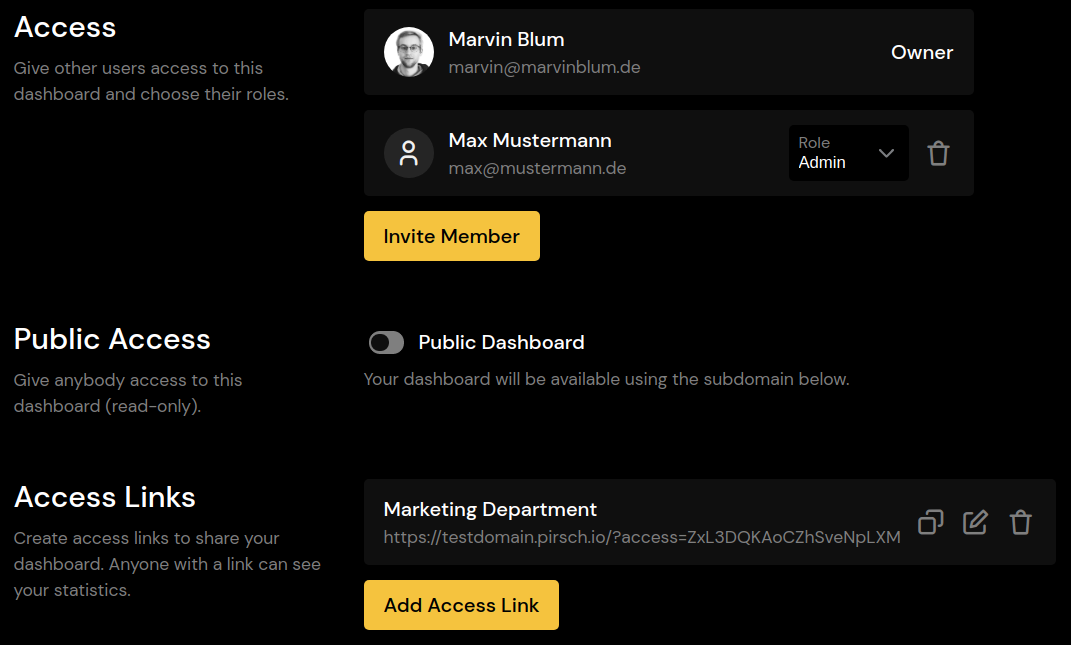
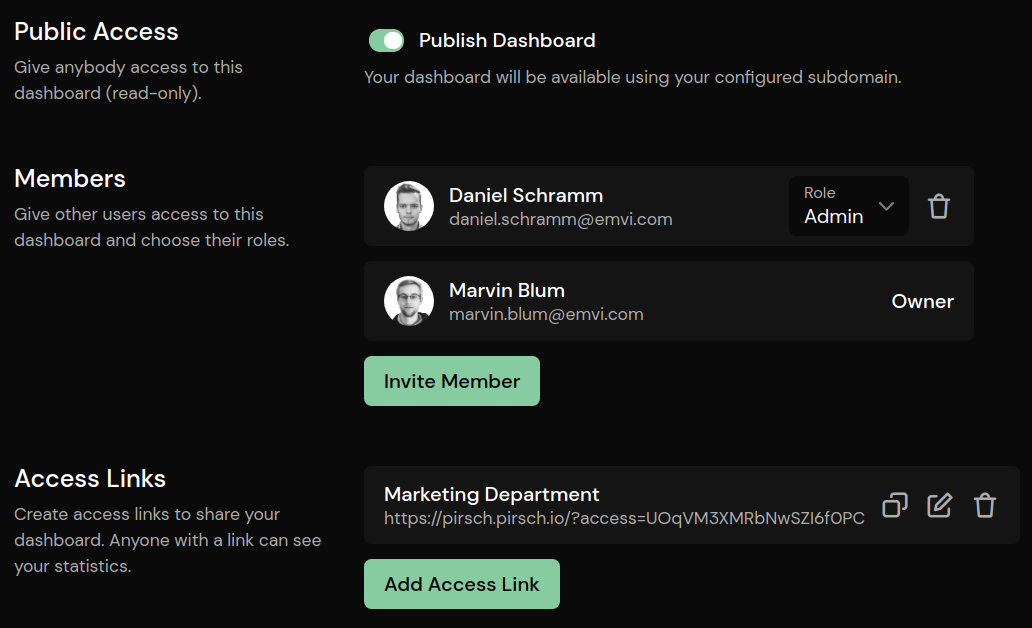
Restructured settings, updated screenshot, added data deletion and ownership transfer sections.

diff --git a/content/dashboard/general-settings.md b/content/dashboard/general-settings.md
@@ -1,0 +1,42 @@
+---
+title: "General Settings"
+date: 2021-04-08
+draft: false
+weight: 3
+description: "Manage your websites settings."
+---
+
+## Changing the Subdomain
+
+You can change the subdomain for public access by entering a new one and pressing *Save*. Note that the subdomain needs to be available and some subdomains are reserved.
+
+## Email Reports
+
+Send email reports to yourself or external recipients every week, two weeks, three weeks, or once per month. To add email addresses, click on *Add Reports*, enter the recipients and the preferred interval. The report will look something like this:
+
+![Email Report](/dashboard/email-report.png)
+
+Please make sure you only add recipients who want to receive reports.
+
+## Search Console
+
+The integration can be used to connect your dashboard to Google Search Console. After activation, it will show a list of keywords on the dashboard visitors use to find your website. We use the minimal amount of data required to connect to your account. This includes your user ID, email address, and a refresh token. You can remove Pirsch from your account by navigating to the [Account Permissions](https://myaccount.google.com/permissions) page for your Google account.
+
+Before you can use the integration, add your website to Search Console and verify that you are the owner of your domain. Afterwards, navigate back to the Pirsch dashboard settings page and follow these steps:
+
+1. click on *Continue with Google*, this will redirect you to login with the Google account you would like to use to connect
+2. select the account that has access to your property on Google Search Console ![Site Selection](/dashboard/settings-gsc-accounts.png)
+3. grant access to your Search Console data ![Site Selection](/dashboard/settings-gsc-permissions.png)
+4. confirm the choices on the next screen ![Site Selection](/dashboard/settings-gsc-confirmation.png)
+5. after you have been redirected back to the settings page, select the website you would like to pull data from. The list will only show **verified** sites ![Site Selection](/dashboard/settings-gsc-integration.png)
+6. navigate to the dashboard and check if you see a new panel *Keywords* with the data from the Search Console
+
+In case you don't see any data, please wait a few hours. The data on Search Console is not updated in real-time, and it might take a while before you see the results.
+
+In case you would like to remove the integration, click on *Unlink Account*.
+
+## Export to CSV
+
+You can export your data for up to the past 12 months. Click on *Export Data to CSV* and select the start date, end date, and the statistics you would like to export. Clicking on *Create CSV File* will start the download. The statistics are separated into individual CSV files and bundled within a zip archive.
+
+![CSV Export](/dashboard/csv-export.png)

diff --git a/content/dashboard/access-settings.md b/content/dashboard/access-settings.md
@@ -1,0 +1,32 @@
+---
+title: "Access Settings"
+date: 2021-04-08
+draft: false
+weight: 4
+description: "Manage who has access to your dashboard."
+---
+
+There are multiple ways to manage access to your websites statistics. They always refer to the currently active domain. To give the same person access to two websites for example, you need to add them to both separately.
+
+### Public Access
+
+The *Public Access* and *Access Links* section both give anyone access to your dashboard.
+
+*Public Access* will make your dashboard public to anyone on the subdomain you have chosen when creating the website. An example for this is our live demo on [pirsch.pirsch.io](https://pirsch.pirsch.io/), where the first *pirsch* in the domain is replaced by the one you have configured.
+
+*Access Links* can be used to generate a link which allows anyone who has it to read your dashboard. The advantage over the *Public Access* is that you can delete links to deny access, without interrupting anyone who has a different link.
+
+### Private Access
+
+If you don't want to send out links or make your dashboard public to anyone, you can invite members instead. Click *Invite Member* to add new members to your website and enter all email addresses you would like to invite. The invited members will have to create an account for Pirsch if they don't already have one and accept the invitation.
+
+After the members have joined, they will be able to view all statistics without modifing settings. You can change the member role to give them administrative access to your dashboard, including:
+
+* managing members (not including themselves or you, the owner)
+* managing access links
+* resetting the identification code
+* managing clients
+
+To remove a member, just click on the trash icon.
+
+![Access Management](/dashboard/settings-access.png)

diff --git a/content/dashboard/developer-settings.md b/content/dashboard/developer-settings.md
@@ -1,0 +1,23 @@
+---
+title: "Developer Settings"
+date: 2021-04-08
+draft: false
+weight: 5
+description: "Manage integrations and other development related settings."
+---
+
+## JavaScript Snippet
+
+The snippet for the [website integration]({{< ref "get-started/frontend-integration.md" >}}). This is just here for your convenience.
+
+## Resetting the Identifcation Code
+
+The identification code is used for the JavaScript snippet which must be embedded on your page if you decide to use the [website integration]({{< ref "get-started/frontend-integration.md" >}}). Usually, you don't need to change it, but should your identification code get hijacked, you can reset it here. Note that you need to update all pages containing the snippet should you reset it.
+
+## Clients
+
+Clients are used to access the [Pirsch API]({{< ref "api-sdks/_index.md" >}}). You will need one if you decide to use the [backend integration]({{< ref "get-started/backend-integration.md" >}}) or to access your data from an external application.
+
+To create a new client, click *Add Client* and enter a description. The next dialog will show the unique client ID and secret, which you should save and treat like a password. Once the dialog is closed, there is no way to view the secret again and you will have to create a new client.
+
+![Clients](/dashboard/settings-client.png)

diff --git a/content/integrations/wordpress.md b/content/integrations/wordpress.md
@@ -14,13 +14,13 @@ To install the plugin, navigate to the plugins page on your WordPress administra
 
 ![WordPress Plugin](/integration/wordpress.png)
 
-Enter the hostname you used to set up the website on the Pirsch dashboard and the client ID and secret. You can create new clients on the [settings page]({{< ref "dashboard/settings.md" >}}) for your website. After you clicked on save, Pirsch will start collecting statistics for your website.
+Enter the hostname you used to set up the website on the Pirsch dashboard and the client ID and secret. You can create new clients on the [settings page]({{< ref "dashboard/developer-settings.md" >}}) for your website. After you clicked on save, Pirsch will start collecting statistics for your website.
 
 ## Installing the Script (Frontend Integration)
 
 To add the JavaScript snippet on your WordPress website, install the "Insert Headers and Footers" plugin. Navigate to the settings page of the plugin and paste the snippet inside the "header" section and save.
 
-The snippet can be found on the [settings page]({{< ref "dashboard/settings.md" >}}) of your dashboard.
+The snippet can be found on the [settings page]({{< ref "dashboard/developer-settings.md" >}}) of your dashboard.
 
 ## Permalink Settings
 

diff --git a/content/dashboard/danger-zone-settings.md b/content/dashboard/danger-zone-settings.md
@@ -1,0 +1,19 @@
+---
+title: "Danger Zone"
+date: 2021-04-08
+draft: false
+weight: 6
+description: "Delete statistics, transfer ownership or delete the website entirely."
+---
+
+## Delete Data
+
+You can delete all or parts of the statistics for a specific domain. Click on *Delete Data* and select the time frame you would like to use. Afterwards, select the statistics you would like to delete or all.
+
+## Transfer Ownership
+
+In case you would like to transfer the ownership for the website, click on *Transfer Ownership* and enter the email address of the new owner. The new owner must have an account at Pirsch and accept the transfer from the dashboard. Please note that the new owner must have an active subscription (or an active free-trial) to collect statistics for the new website. The page views will count towards the subscription of the new owner after the transfer has been accepted.
+
+## Delete Your Domain
+
+This action will delete all statistics, access to the dashboard, and free up the subdomain. Note that deleting a domain is permanent, we won't keep any of your data.

diff --git a/content/dashboard/overview.md b/content/dashboard/overview.md
@@ -54,7 +54,7 @@ A panel will only display the top 10 results, but you can enlarge it to see all 
 
 ### Google Keywords From the Search Console
 
-In case you have enabled the Google Search Console integration on the [settings page]({{< ref "dashboard/settings.md" >}}) the panel will show the number of clicks, impressions, CTR, and the average search rank for keywords visitors use to find your website on Google.
+In case you have enabled the Google Search Console integration on the [settings page]({{< ref "dashboard/general-settings.md" >}}) the panel will show the number of clicks, impressions, CTR, and the average search rank for keywords visitors use to find your website on Google.
 
 ![Search Console](/dashboard/search-console.png)
 
